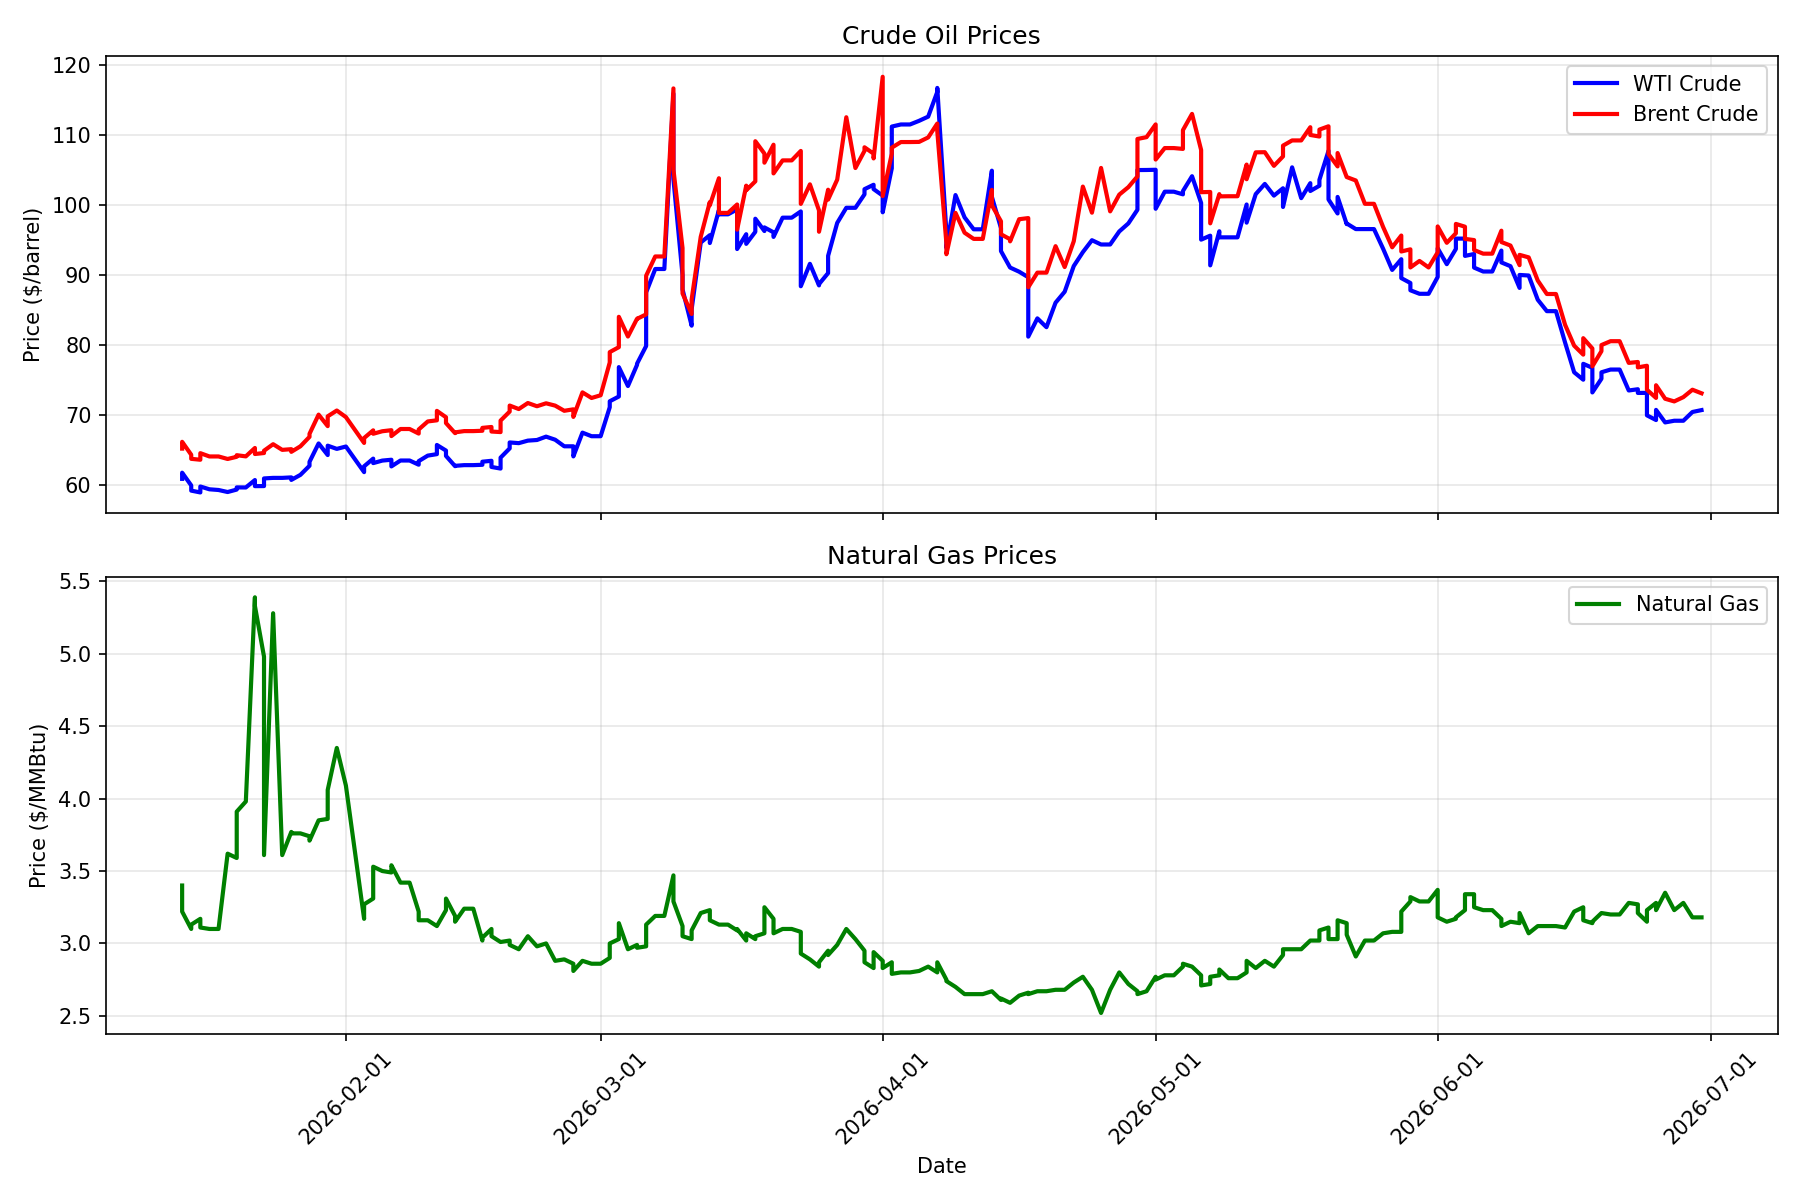
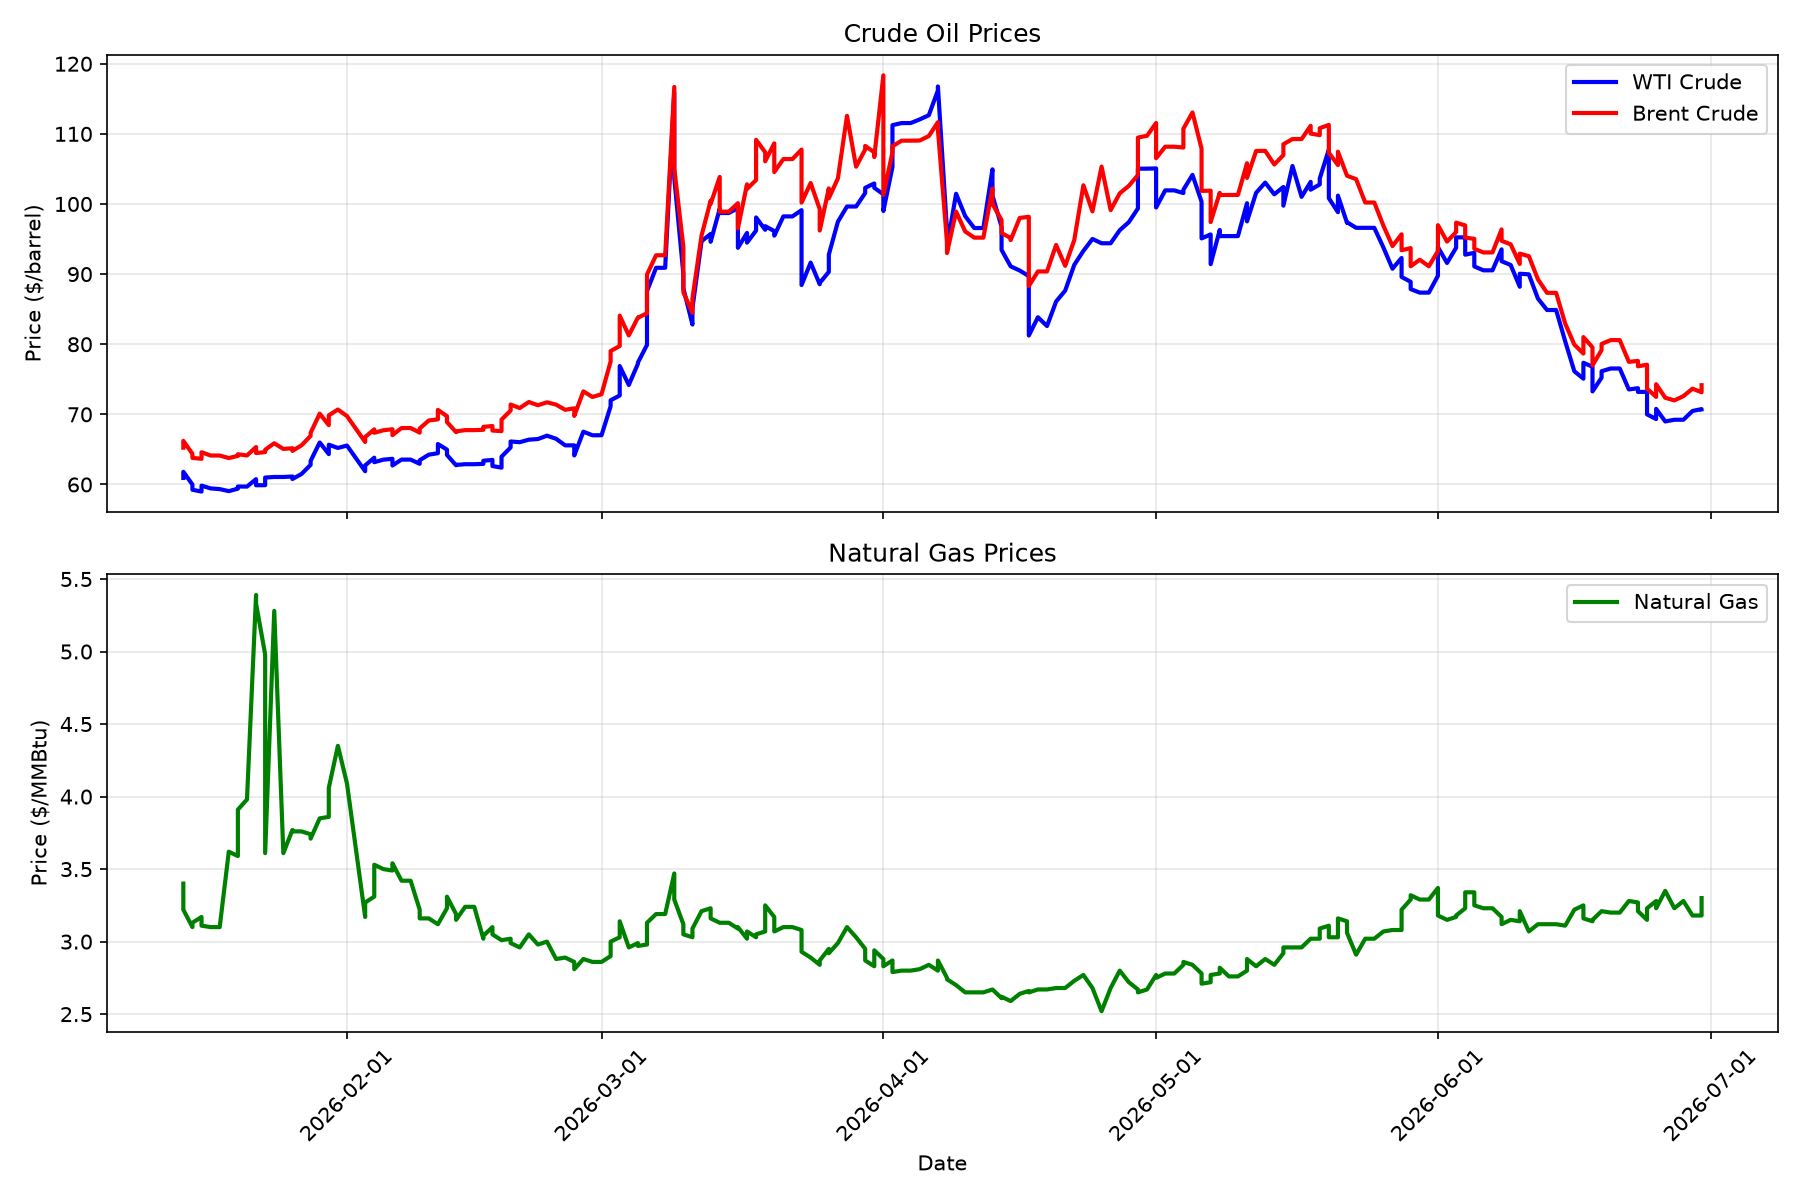
Daily price update: 2026-06-30

diff --git a/README.md b/README.md
@@ -8,23 +8,23 @@ Automated daily tracking of chemical commodity prices and chemical company stock
 
 | Commodity | Price | Change (24h) | Unit |
 |-----------|-------|--------------|------|
-| WTI Crude Oil | $70.75 | +0.00 (+0.00%) | $/barrel |
-| Brent Crude Oil | $73.15 | +0.00 (+0.00%) | $/barrel |
-| Natural Gas | $3.18 | +0.00 (+0.00%) | $/MMBtu |
-| Heating Oil | $3.33 | +0.00 (+0.00%) | $/gallon |
+| WTI Crude Oil | $70.73 | -0.02 (-0.03%) | $/barrel |
+| Brent Crude Oil | $74.16 | +1.01 (+1.38%) | $/barrel |
+| Natural Gas | $3.30 | +0.12 (+3.74%) | $/MMBtu |
+| Heating Oil | $3.24 | -0.09 (-2.78%) | $/gallon |
 
 ### Chemical Company Stocks
 
 | Company | Ticker | Price | Change (24h) |
 |---------|--------|-------|--------------|
-| Dow Inc. | DOW | $27.92 | -1.12 (-3.86%) |
-| LyondellBasell | LYB | $53.62 | -2.11 (-3.79%) |
-| DuPont | DD | $135.74 | -1.48 (-1.08%) |
-| Air Products | APD | $271.35 | -6.44 (-2.32%) |
-| Linde | LIN | $511.06 | -8.56 (-1.65%) |
-| Eastman Chemical | EMN | $66.92 | -3.79 (-5.36%) |
-| Celanese | CE | $45.93 | -3.49 (-7.06%) |
-| Huntsman | HUN | $10.95 | -0.46 (-4.03%) |
+| Dow Inc. | DOW | $27.51 | -0.41 (-1.45%) |
+| LyondellBasell | LYB | $52.92 | -0.70 (-1.31%) |
+| DuPont | DD | $136.20 | +0.46 (+0.34%) |
+| Air Products | APD | $296.38 | +25.03 (+9.22%) |
+| Linde | LIN | $516.55 | +5.49 (+1.08%) |
+| Eastman Chemical | EMN | $66.53 | -0.39 (-0.59%) |
+| Celanese | CE | $46.09 | +0.16 (+0.35%) |
+| Huntsman | HUN | $10.51 | -0.44 (-4.02%) |
 
 ## Data Sources
 

diff --git a/logs/update_log.md b/logs/update_log.md
@@ -279,3 +279,4 @@ Daily updates to the chemical engineering data repository.
 - **2026-06-28 14:32:04**: Updated 4 energy prices, 8 stocks, 0 FRED series
 - **2026-06-29 15:06:30**: Updated 4 energy prices, 8 stocks, 0 FRED series
 - **2026-06-30 00:00:25**: Updated 4 energy prices, 8 stocks, 0 FRED series
+- **2026-06-30 14:48:51**: Updated 4 energy prices, 8 stocks, 0 FRED series
